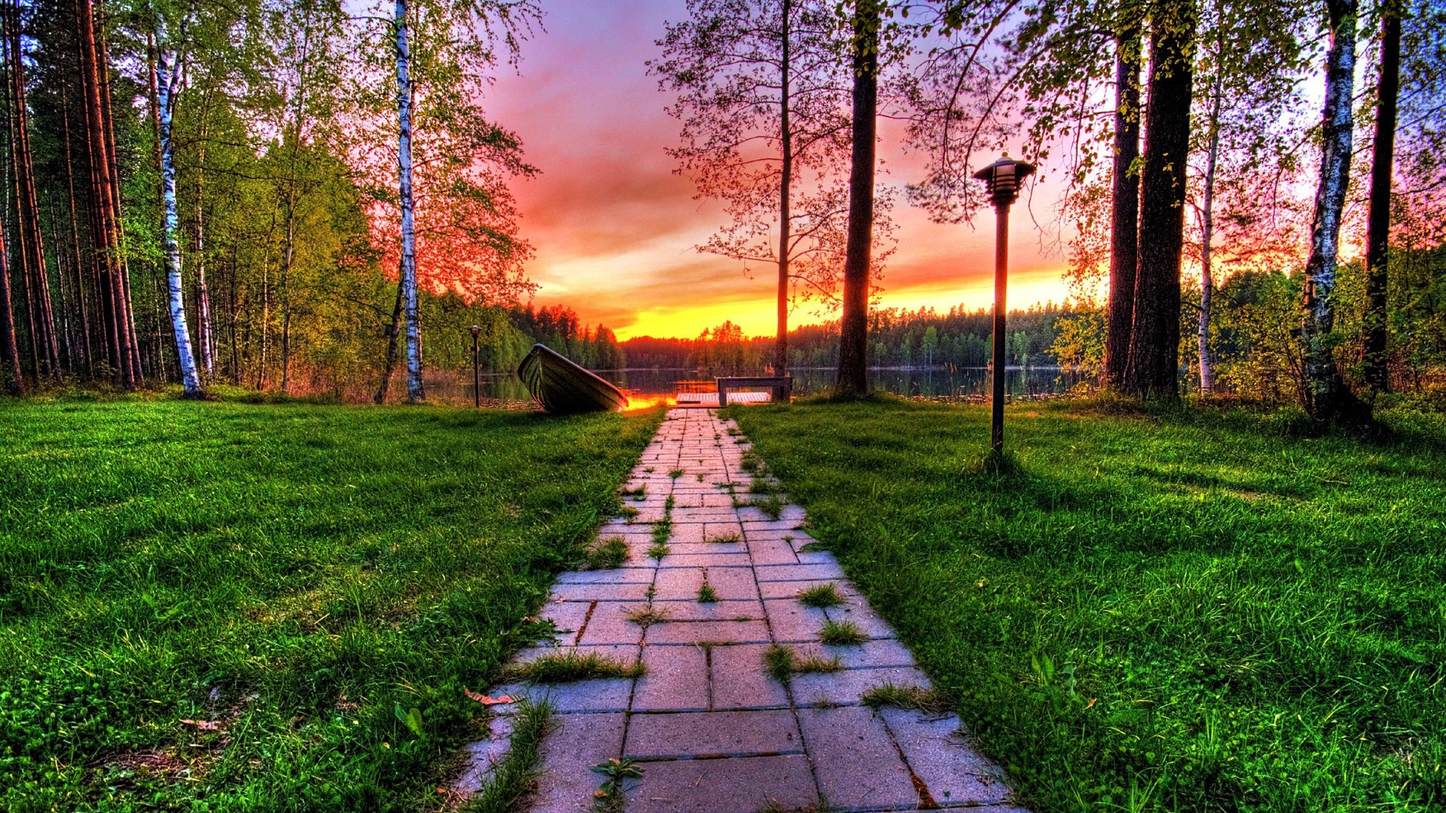
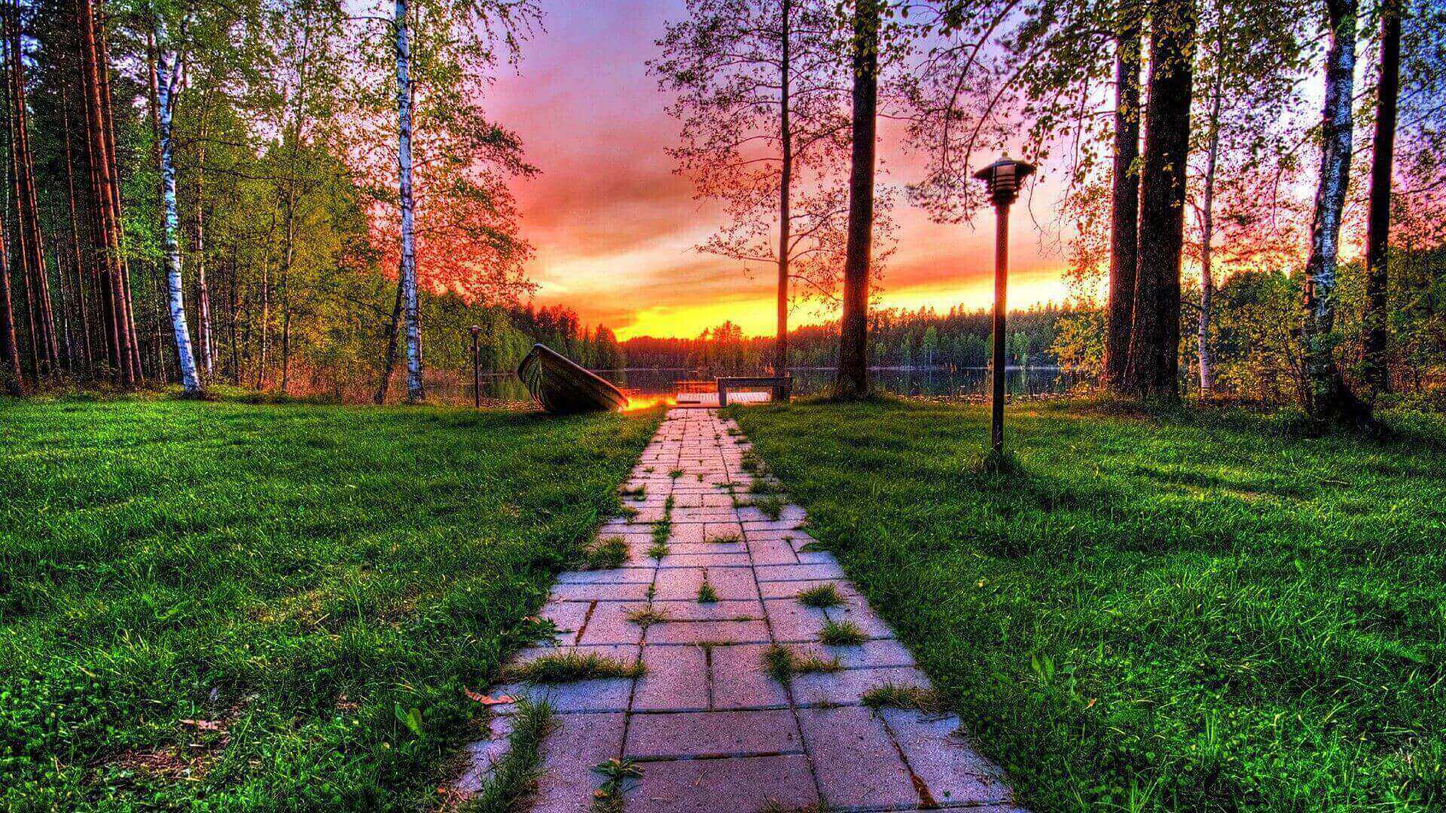
add static cache and minify bg-1.jpg

diff --git a/server/index.js b/server/index.js
@@ -7,7 +7,8 @@ import browser from './middlewares/browser';
 const app = koa();
 app.use(browser(app, config));
 app.use(staticServer(config.path.public,{
-  hidden: true
+  hidden: true,
+  maxage: 60*1000
 }));
 app.use(router(app, config.router));
 

diff --git a/client/pages/poem/index.css b/client/pages/poem/index.css
@@ -1,5 +1,8 @@
 @import "../../common/css/reset.css";
 @import "../../common/css/common.css";
+body{
+  background: none;
+}
 .body-wrapper{
   position: absolute;
   width: 100%;
